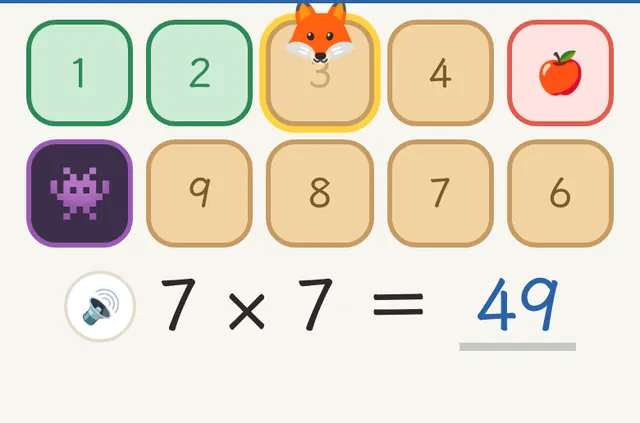
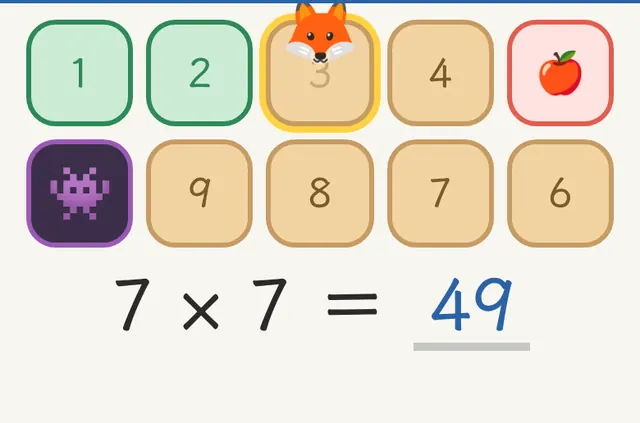
九九大冒險：答錯只寫數字，拿掉國字口訣和喇叭；數字不加注音
Claude-Session: https://claude.ai/code/session_01WujgzrJXU51jfSr52ba2Qy

Changed region(s): [[0.0938, 0.6454, 0.9062, 0.8298], [0.125, 0.7991, 0.1875, 0.8298]]

diff --git a/js/nine.js b/js/nine.js
@@ -2,7 +2,7 @@
  * 🦊 九九乘法大冒險
  *   選一座島（2～9 的乘法、🌈 綜合）→ 地圖 9 格：答對往前走一格（第 5 格 🍎 補一顆愛心）
  *   → 第 10 格 👾 大魔王：5 格血，答對打一下，每題 10 秒，時間到或答錯會被打。
- *   用數字鍵盤自己打答案（背九九，不是猜）。答錯念出口訣，同一題要再答對才能走。
+ *   用數字鍵盤自己打答案（背九九，不是猜）。答錯只寫數字（不寫國字、不放喇叭），會念出口訣，同一題要再答對才能走。
  *   愛心 3 顆；破關剩幾顆愛心就拿幾顆星，還有 🏅。
  */
 (function () {
@@ -36,7 +36,7 @@
     $('n-title').textContent = '🦊 九九乘法大冒險';
     $('n-hearts').innerHTML = ''; $('n-left').textContent = '選一座島';
     $('nine').className = 'screen game nine-pick';
-    var h = '<p class="n-pick-title">' + App.sayBtn('選一座島。2的乘法，到9的乘法，或是綜合挑戰。') + '<span>選一座島開始冒險！</span></p><div class="islands">';
+    var h = '<p class="n-pick-title">選一座島開始冒險！</p><div class="islands">';
     [2, 3, 4, 5, 6, 7, 8, 9, 0].forEach(function (t) {
       var rec = App.store.stages['99-' + t] || {}, st = rec.stars || 0;
       h += '<button class="island' + (t ? '' : ' mix') + '" type="button" data-t="' + t + '"><span class="i-ic">' + (t ? '🏝' : '🌈') + '</span><b>' + (t ? t + ' 的乘法' : '綜合挑戰') + '</b>' +
@@ -88,7 +88,6 @@
     $('n-left').textContent = N.boss ? '打倒大魔王！' : '第 ' + (N.pos + 1) + ' 格';
     $('n-score').textContent = N.score;
     $('n-q').innerHTML = N.q.a + ' × ' + N.q.b + ' ＝ <span class="n-ans' + (N.phase === 'play' ? ' cur' : '') + '">' + (N.val || '') + '</span>';
-    $('n-say').dataset.say = N.q.a + '乘以' + N.q.b + '，等於多少？';
   }
   function msg(html, cls) { $('n-msg').className = 'n-msg ' + (cls || ''); $('n-msg').innerHTML = html; }
 
@@ -136,7 +135,7 @@
     N.combo = 0; N.wrong++; N.hearts--; N.wrongs.push(q.a + ' × ' + q.b + ' ＝ ' + q.a * q.b);
     SFX.bad();
     var c = chant(q.a, q.b);
-    msg('❌ ' + why + '！' + App.sayBtn(c) + '<span><b>' + q.a + ' × ' + q.b + ' ＝ ' + q.a * q.b + '</b>（' + c + '）</span>', 'bad');
+    msg('❌ ' + why + '！<b>' + q.a + ' × ' + q.b + ' ＝ ' + q.a * q.b + '</b>', 'bad'); // 只寫數字（老師：學生看得懂數字，國字反而是負擔）
     speak(c);
     render();
     if (N.hearts <= 0) { setTimeout(function () { finish(false); }, 1800); return; }
@@ -171,7 +170,7 @@
     var name = t ? t + ' 的乘法島' : '綜合挑戰';
     var title = win ? '🏅 打倒大魔王！' + name + '破關了！' : '愛心用完了，背一背口訣再來一次！';
     var rv = N.wrongs.length ? '<h3>📝 要再背一背</h3><ul>' + N.wrongs.filter(function (w, i, a) { return a.indexOf(w) === i; }).map(function (w) {
-      var m = /(\d+) × (\d+)/.exec(w); return '<li>' + esc(w) + '（' + chant(+m[1], +m[2]) + '）</li>'; }).join('') + '</ul>' : '';
+      return '<li>' + esc(w) + '</li>'; }).join('') + '</ul>' : '';
     App.showEnd({
       stars: stars, title: title, scoreHTML: '得到 <b>' + N.score + '</b> 分', isRecord: win && r.isRecord,
       bestText: r.rec.best ? '這座島最高紀錄：' + r.rec.best + ' 分' : '', reviewHTML: rv,

diff --git a/style.css b/style.css
@@ -435,3 +435,6 @@ html.zhuyin .n-q, html.zhuyin .tile { font-family: var(--font); }
 .tut-start .go-btn, #tut-resume { min-height: 68px; font-size: 2em; line-height: 1; }
 .tut-back { align-self: center; min-width: 64px; min-height: 52px; border-radius: 14px; border: 2px solid var(--line); background: var(--bg); font-size: 1.6em; line-height: 1; color: var(--ink-soft); }
 @media (max-width: 520px) { .tut-btn { min-width: 68px; min-height: 52px; } }
+
+/* 九九：數字不加注音 */
+html.zhuyin .n-msg b, html.zhuyin .n-q, html.zhuyin .island b, html.zhuyin #n-left { font-family: var(--font); }

diff --git a/index.html b/index.html
@@ -138,7 +138,7 @@
     <main class="calc nine-main">
       <div class="n-board" id="n-board"></div>
       <div class="n-play" id="n-play" hidden>
-        <div class="n-qrow"><button class="say" type="button" id="n-say" aria-label="念題目">🔊</button><div class="n-q" id="n-q"></div></div>
+        <div class="n-qrow"><div class="n-q" id="n-q"></div></div>
         <div class="n-msg" id="n-msg" aria-live="polite"></div>
       </div>
     </main>
